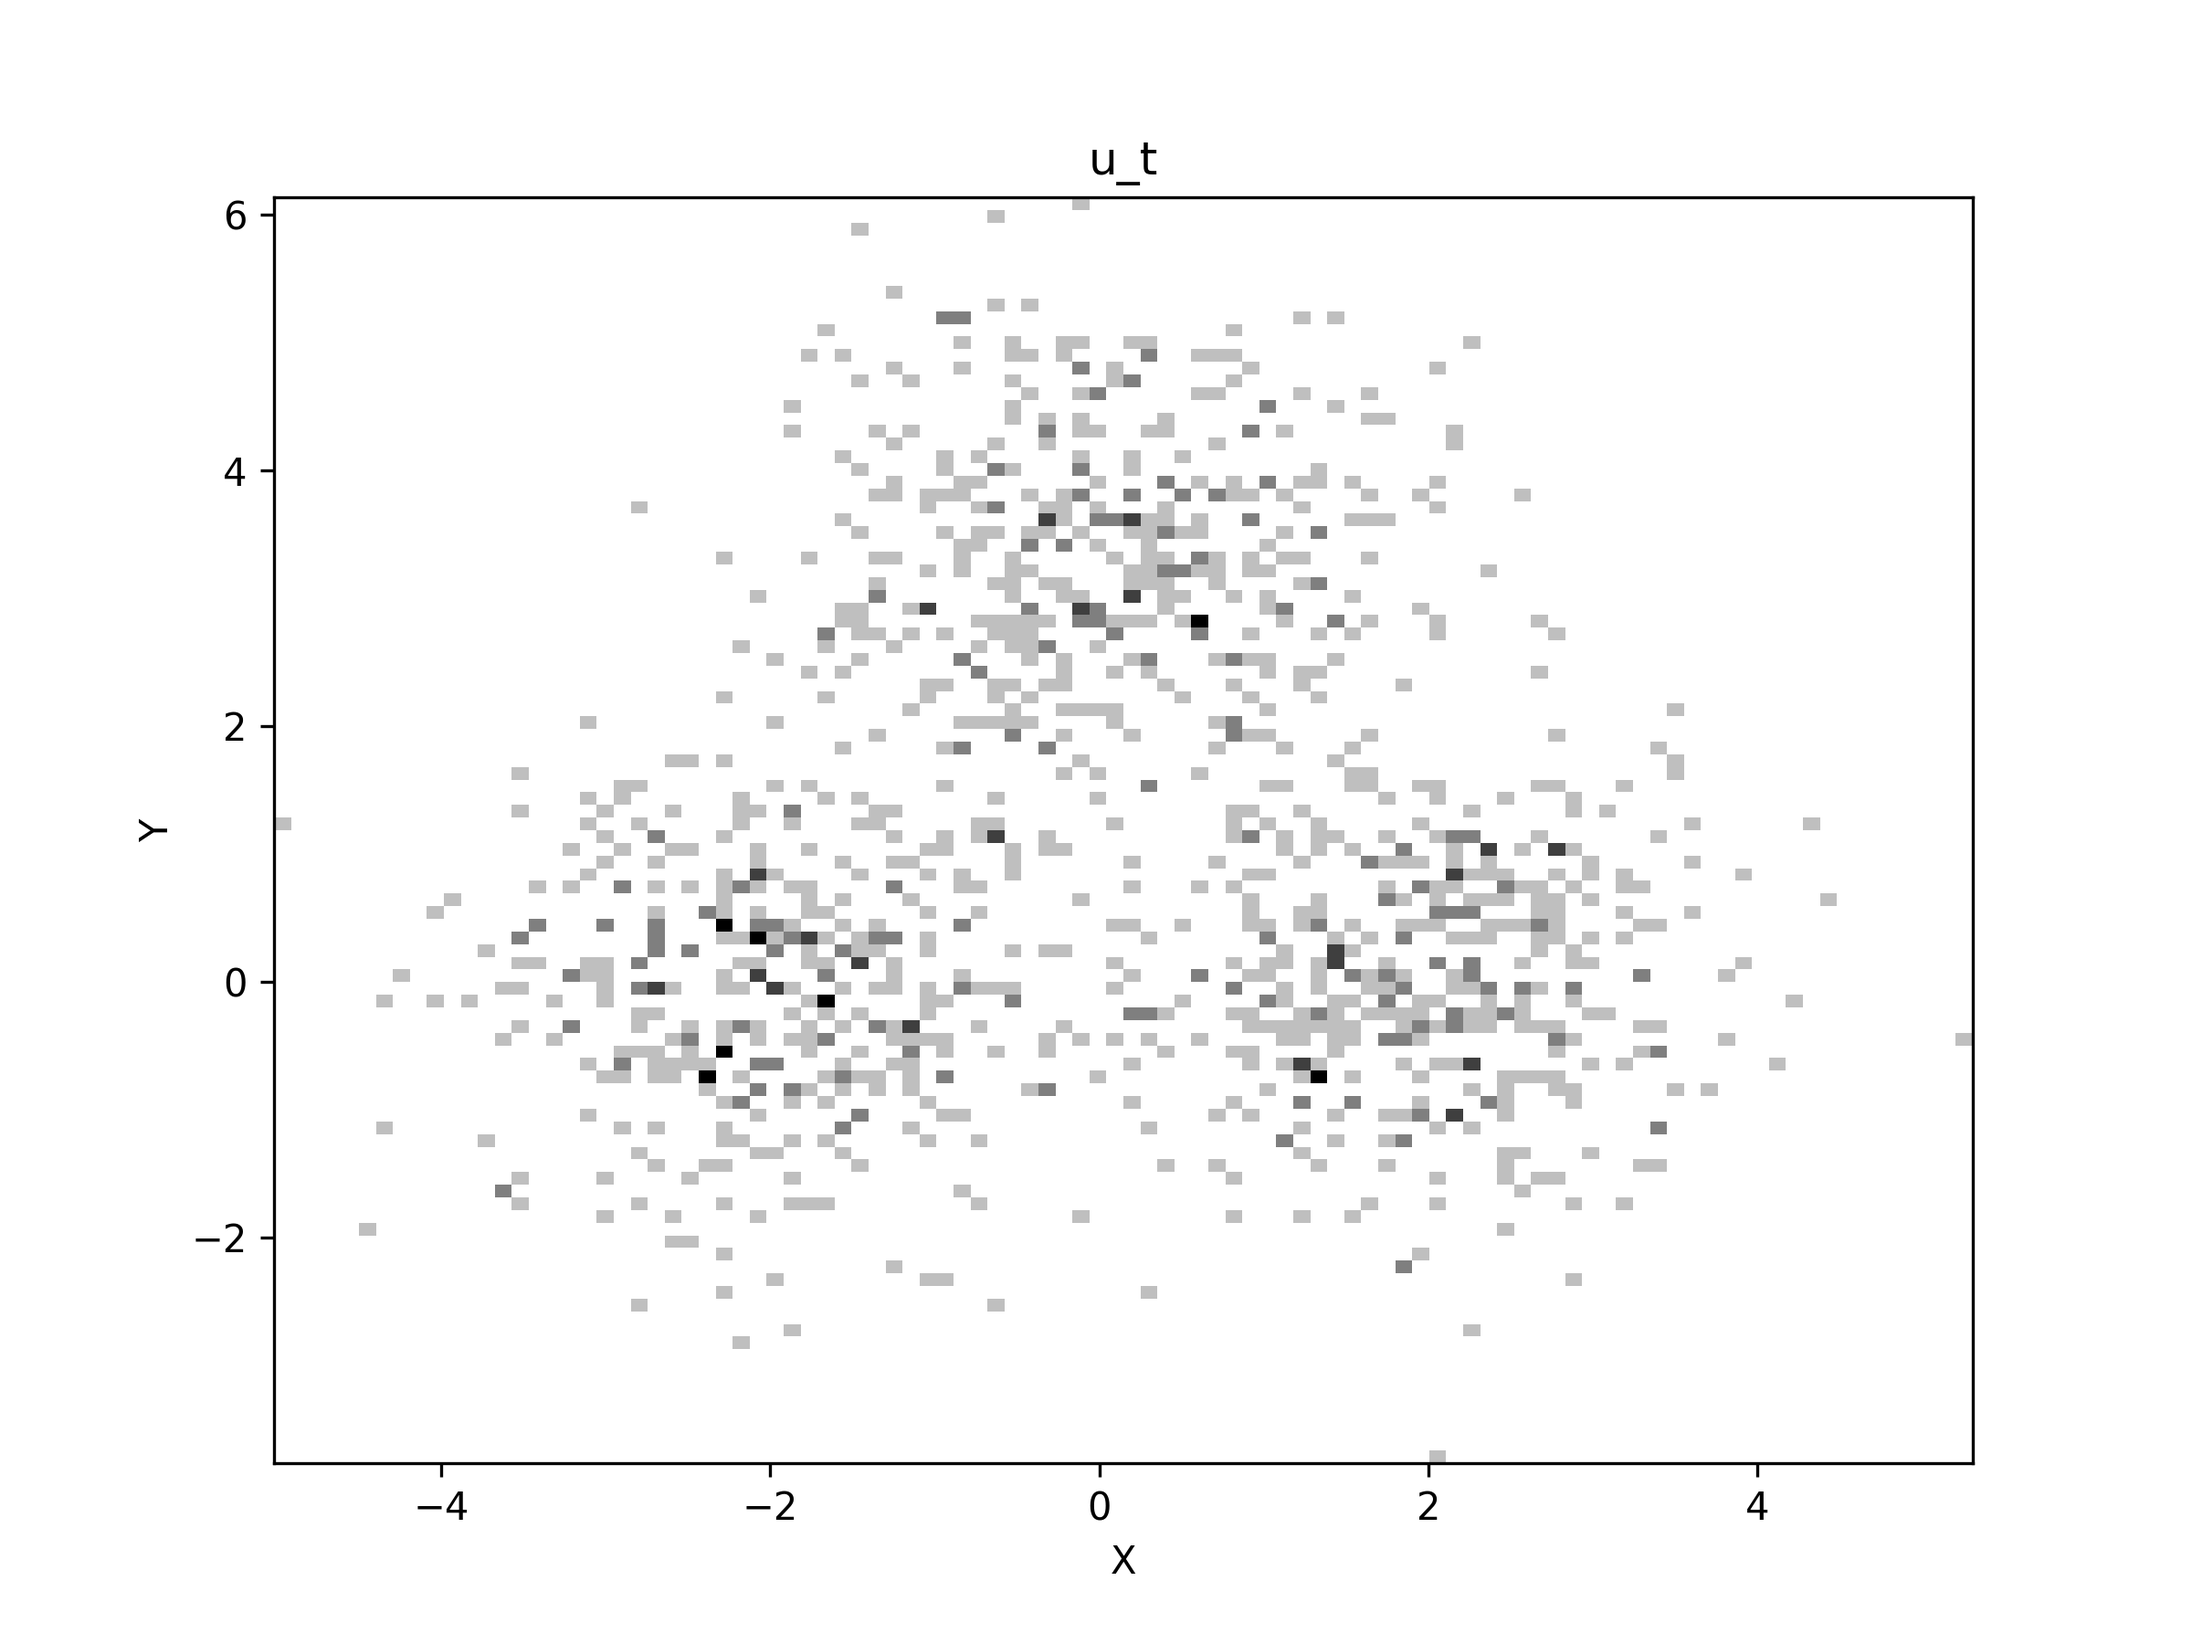
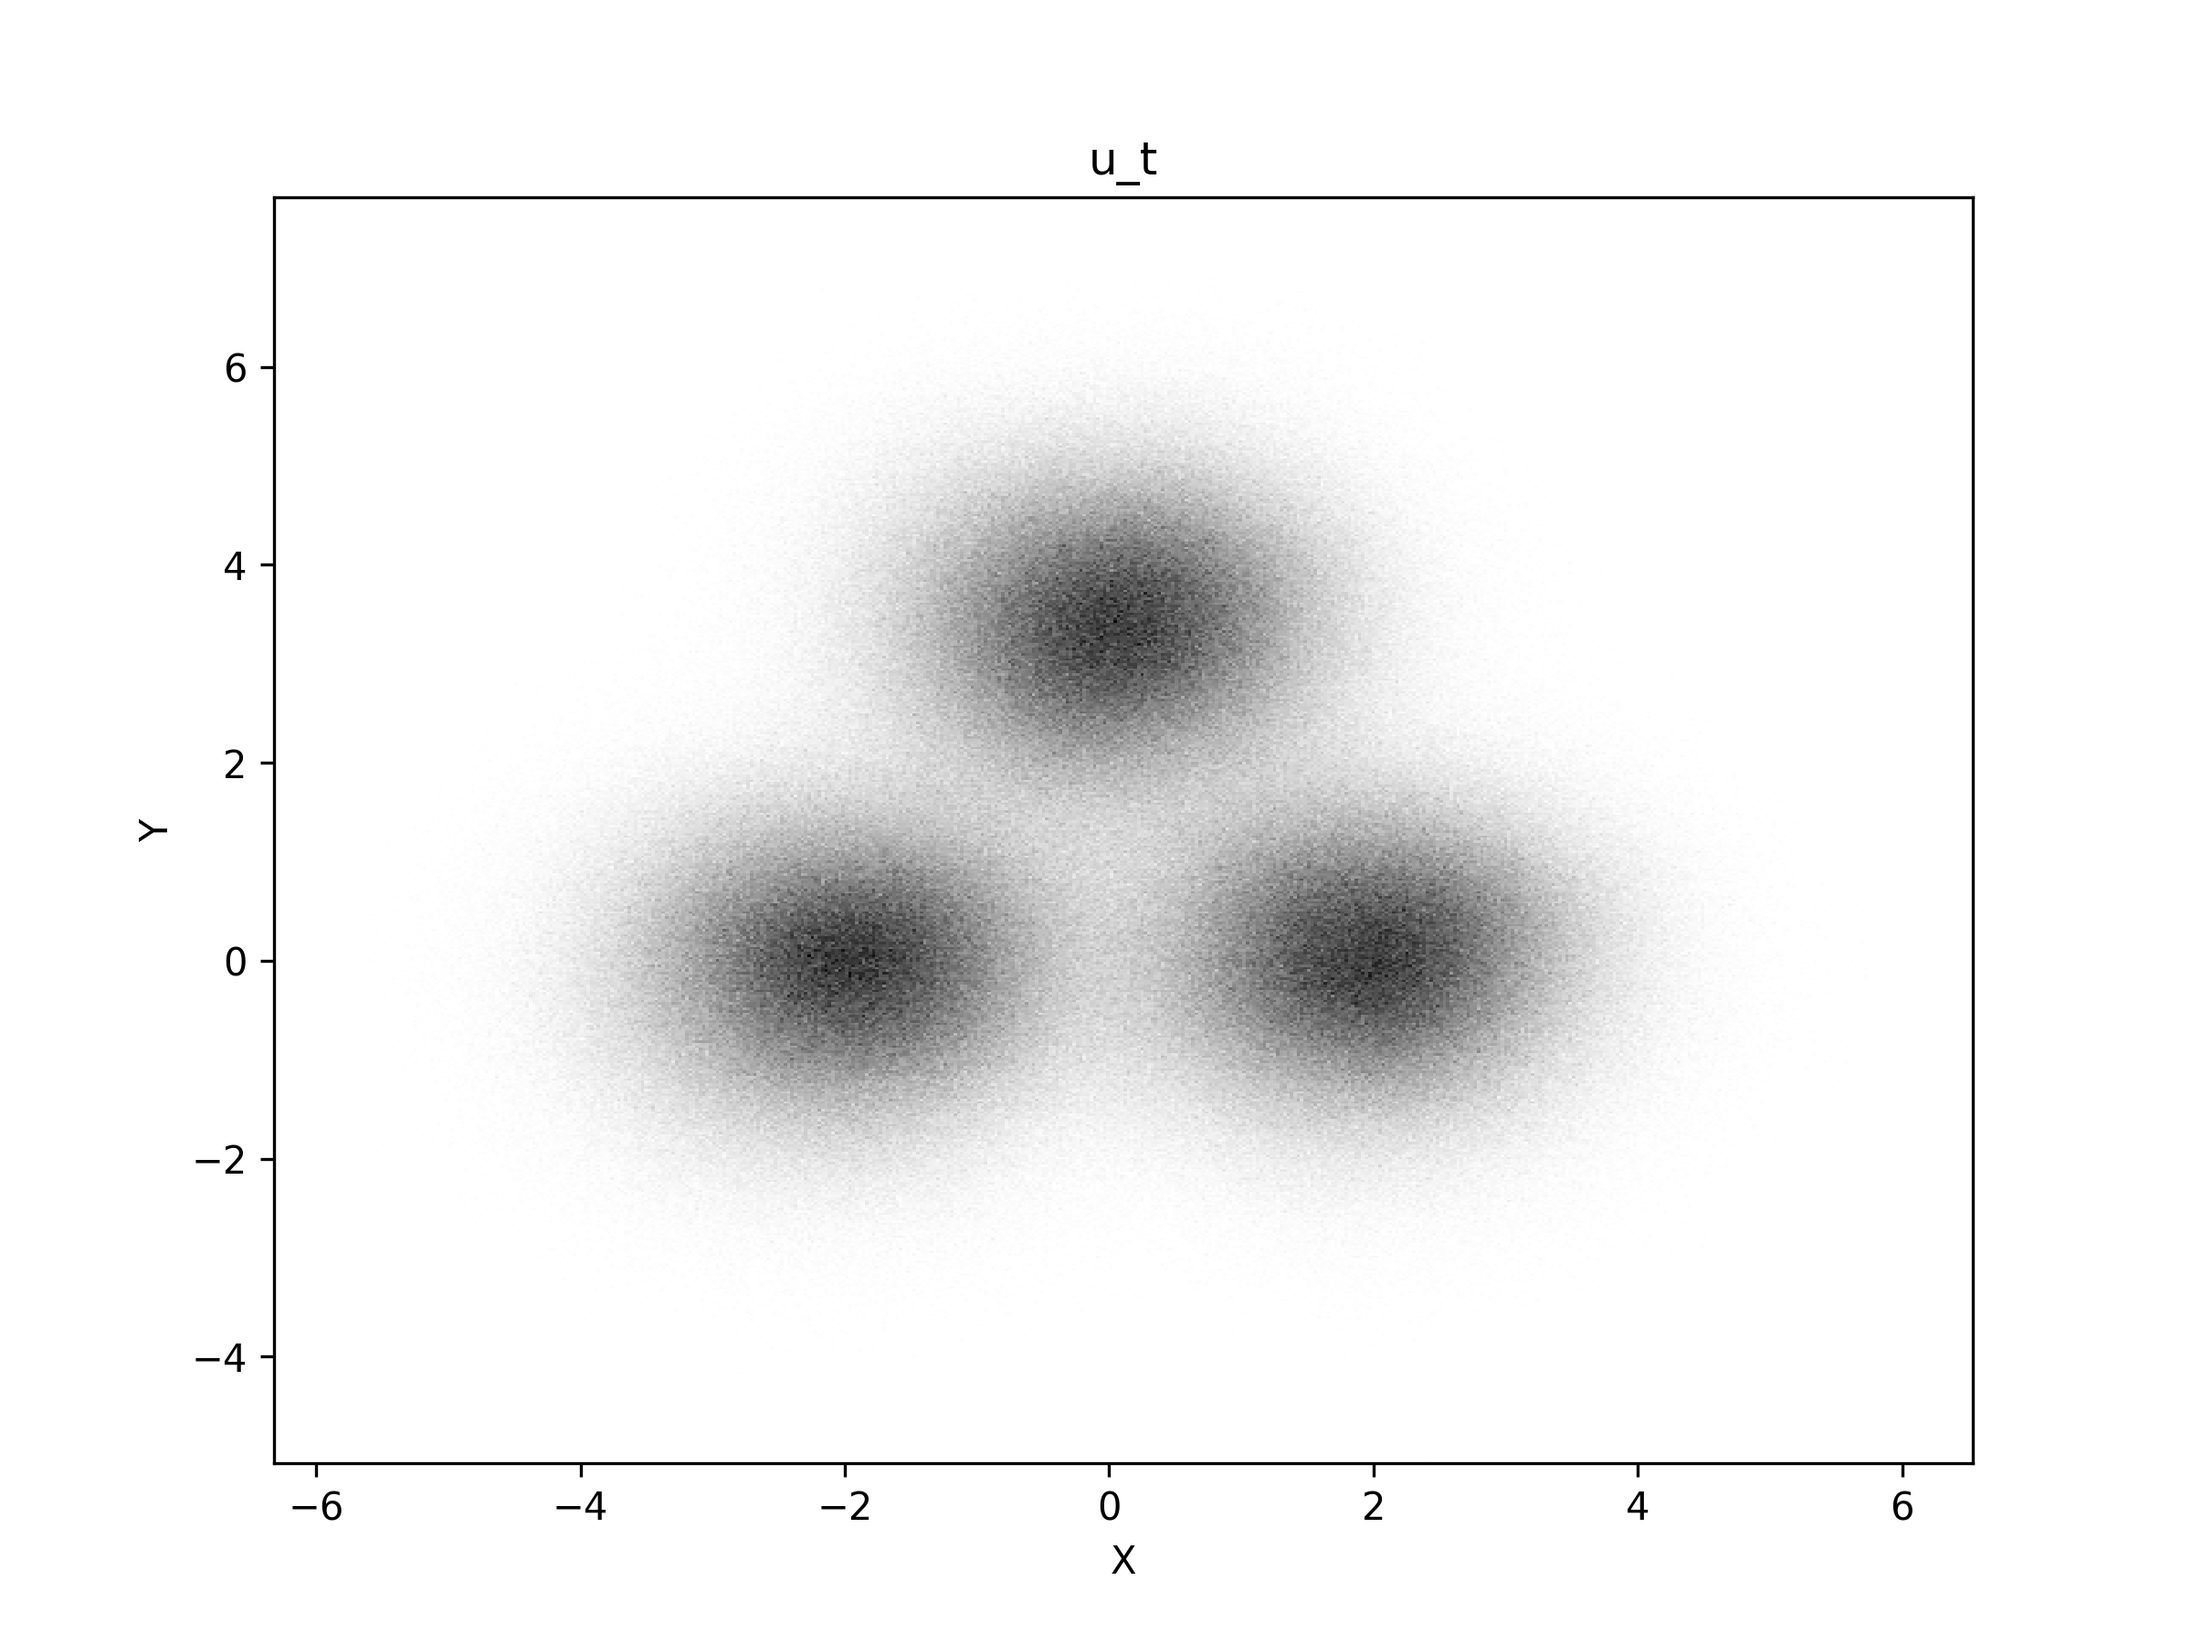
Deleted obsolete files

diff --git a/.ipynb_checkpoints/sample_from_model-checkpoint.py b/.ipynb_checkpoints/sample_from_model-checkpoint.py
@@ -14,7 +14,7 @@ model.eval()
 
 def ode_step_rk4(model, x_t, t, h, y, w, device):
     with torch.no_grad():
-        y0 = torch.tensor([0], dtype=torch.long, device = device)
+        y0 = torch.zeros_like(y)
         k1 = (1 - w) * model(x_t, t, y0) + w * model(x_t, t, y)
         k2 = (1 - w) * model(x_t + 0.5 * h * k1, t + 0.5 * h, y0) + w * model(x_t + 0.5 * h * k1, t + 0.5 * h, y)
         k3 = (1 - w) * model(x_t + 0.5 * h * k2, t + 0.5 * h, y0) + w * model(x_t + 0.5 * h * k2, t + 0.5 * h, y)
@@ -22,106 +22,73 @@ def ode_step_rk4(model, x_t, t, h, y, w, device):
         x_next = x_t + (h / 6.0) * (k1 + 2 * k2 + 2 * k3 + k4)
     return x_next
 
-def sampling_from_guided_flows(model, device, y=0, w=1.0, num_steps=100):
+def sampling_from_guided_flows(model, device, y=0, w=1.0, num_steps=100, batch_size=512):
     model.eval()
     with torch.no_grad():
-        x0 = torch.tensor(sample_noise(batch_size=1), dtype=torch.float32, device=device)
+        x0 = torch.tensor(sample_noise(batch_size=batch_size), dtype=torch.float32, device=device)
         h = 1.0 / num_steps
-        t = torch.zeros_like(x0[:, :1], device=device)
+        t = torch.zeros((batch_size, 1), device=device)
         x_t = x0.clone()
-
+        y_tensor = torch.full((batch_size,), y, dtype=torch.long, device=device)
         for _ in range(num_steps):
-            x_t = ode_step_rk4(model, x_t, t, h, torch.tensor([y], dtype=torch.long, device=device), w, device)
+            x_t = ode_step_rk4(model, x_t, t, h, y_tensor, w, device)
             t = t + h
 
-    return x_t.squeeze(0).detach().cpu().numpy()
+    return x_t.detach().cpu().numpy()
 
+n_iters = 2000
+batch_size = 512
 
-n_samples = 400
+print("SAMPLING...", flush=True)
 
-print("SAMPLING...", flush = True)
+# data1 = []
+# for i in range(3):
+#     y = i + 1
+#     cluster_batches = []
 
-data1 = []
+#     for j in range(n_iters):
+#         samples = sampling_from_guided_flows(
+#             model, device,
+#             y=y, w=1.0, num_steps=100,
+#             batch_size=batch_size
+#         )
+#         cluster_batches.append(samples)
+#         if (j + 1) % 100 == 0:
+#             print(f"{i+1}-th cluster, {j+1}-th iteration finished!", flush = True)
+
+#     cluster = np.concatenate(cluster_batches, axis=0)
+#     data1.append(cluster)
+
+# print("DATA1", flush=True)
+
+data2 = []
 for i in range(3):
     y = i + 1
-    cluster = np.array([sampling_from_guided_flows(model, device, y=y, w=1.0, num_steps=100) for _ in range(n_samples)])
-    data1.append(np.stack(cluster))
+    cluster_batches = []
 
-print("DATA1", flush = True)
+    for j in range(n_iters):
+        samples = sampling_from_guided_flows(
+            model, device,
+            y=y, w=4.0, num_steps=100,
+            batch_size=batch_size
+        )
+        cluster_batches.append(samples)
+        if (j + 1) % 100 == 0:
+            print(f"{i+1}-th cluster, {j+1}-th iteration finished!", flush = True)
 
-# data2 = []
-# for i in range(3):
-#     y = i + 1
-#     cluster = np.array([sampling_from_guided_flows(model, device, y=y, w=4.0, num_steps=100) for _ in range(n_samples)])
-#     data2.append(np.stack(cluster))
+    cluster = np.concatenate(cluster_batches, axis=0)
+    data2.append(cluster)
 
-# print("DATA2")
-
-# data3 = []
-# for i in range(3):
-#     y = i + 1
-#     cluster = np.array([sampling_from_guided_flows(model, device, y=y, w=0.0, num_steps=100) for _ in range(n_samples)])
-#     data3.append(np.stack(cluster))
-
-# print("DATA3")
+print("DATA2", flush=True)
 
 print("PLOTING", flush = True)
 fig, ax = plt.subplots(figsize=(8,6))
 
-points = np.vstack(data1)
-# for i, cluster in enumerate(data1):
-#     # ax.scatter(
-#     #     cluster[:,0], cluster[:,1],
-#     #     s=5,                      # veličina tačke
-#     #     alpha=0.4,                # providnost (0.0 - 1.0)
-#     #     color=colors[i]
-#     # )
-#     ax.hist2d(
-#         cluster[:, 0], cluster[:, 1],
-#         bins=100,                    # broj binova
-#         cmap=colors[i],             # svakom klasteru druga mapa boja
-#         alpha=0.6,                  # prozirnost da se preklapaju
-#         density=True                # da prikazuje gustinu
-#     )
-
-plt.hist2d(points[:, 0], points[:, 1], bins=100, cmap='binary')
+points = np.vstack(data2)
+plt.hist2d(points[:, 0], points[:, 1], bins=500, cmap='binary')
 
 plt.title("u_t")
 plt.xlabel("X")
 plt.ylabel("Y")
-plt.savefig("plots/u_t_data1.png", dpi=300)
+plt.savefig("plots/u_t_data2.png", dpi=300)
 plt.close()
-
-# fig, ax = plt.subplots(figsize=(8,6))
-# colors = ['Red', 'Green', 'Blue']
-
-# for i, cluster in enumerate(data2):
-#     ax.scatter(
-#         cluster[:,0], cluster[:,1],
-#         s=5,                      # veličina tačke
-#         alpha=0.4,                # providnost (0.0 - 1.0)
-#         color=colors[i]
-#     )
-
-# plt.title("u_t")
-# plt.xlabel("X")
-# plt.ylabel("Y")
-# plt.savefig("plots/u_t_data2.png", dpi=300)
-# plt.close()
-
-# fig, ax = plt.subplots(figsize=(8,6))
-# colors = ['Red', 'Green', 'Blue']
-
-# for i, cluster in enumerate(data3):
-#     ax.scatter(
-#         cluster[:,0], cluster[:,1],
-#         s=5,                      # veličina tačke
-#         alpha=0.4,                # providnost (0.0 - 1.0)
-#         color=colors[i]
-#     )
-
-# plt.title("u_t")
-# plt.xlabel("X")
-# plt.ylabel("Y")
-# plt.savefig("plots/u_t_data3.png", dpi=300)
-# plt.close()

diff --git a/sample_from_model.py b/sample_from_model.py
@@ -14,7 +14,7 @@ model.eval()
 
 def ode_step_rk4(model, x_t, t, h, y, w, device):
     with torch.no_grad():
-        y0 = torch.tensor([0], dtype=torch.long, device = device)
+        y0 = torch.zeros_like(y)
         k1 = (1 - w) * model(x_t, t, y0) + w * model(x_t, t, y)
         k2 = (1 - w) * model(x_t + 0.5 * h * k1, t + 0.5 * h, y0) + w * model(x_t + 0.5 * h * k1, t + 0.5 * h, y)
         k3 = (1 - w) * model(x_t + 0.5 * h * k2, t + 0.5 * h, y0) + w * model(x_t + 0.5 * h * k2, t + 0.5 * h, y)
@@ -22,106 +22,73 @@ def ode_step_rk4(model, x_t, t, h, y, w, device):
         x_next = x_t + (h / 6.0) * (k1 + 2 * k2 + 2 * k3 + k4)
     return x_next
 
-def sampling_from_guided_flows(model, device, y=0, w=1.0, num_steps=100):
+def sampling_from_guided_flows(model, device, y=0, w=1.0, num_steps=100, batch_size=512):
     model.eval()
     with torch.no_grad():
-        x0 = torch.tensor(sample_noise(batch_size=1), dtype=torch.float32, device=device)
+        x0 = torch.tensor(sample_noise(batch_size=batch_size), dtype=torch.float32, device=device)
         h = 1.0 / num_steps
-        t = torch.zeros_like(x0[:, :1], device=device)
+        t = torch.zeros((batch_size, 1), device=device)
         x_t = x0.clone()
-
+        y_tensor = torch.full((batch_size,), y, dtype=torch.long, device=device)
         for _ in range(num_steps):
-            x_t = ode_step_rk4(model, x_t, t, h, torch.tensor([y], dtype=torch.long, device=device), w, device)
+            x_t = ode_step_rk4(model, x_t, t, h, y_tensor, w, device)
             t = t + h
 
-    return x_t.squeeze(0).detach().cpu().numpy()
+    return x_t.detach().cpu().numpy()
 
+n_iters = 2000
+batch_size = 512
 
-n_samples = 400
+print("SAMPLING...", flush=True)
 
-print("SAMPLING...", flush = True)
+# data1 = []
+# for i in range(3):
+#     y = i + 1
+#     cluster_batches = []
 
-data1 = []
+#     for j in range(n_iters):
+#         samples = sampling_from_guided_flows(
+#             model, device,
+#             y=y, w=1.0, num_steps=100,
+#             batch_size=batch_size
+#         )
+#         cluster_batches.append(samples)
+#         if (j + 1) % 100 == 0:
+#             print(f"{i+1}-th cluster, {j+1}-th iteration finished!", flush = True)
+
+#     cluster = np.concatenate(cluster_batches, axis=0)
+#     data1.append(cluster)
+
+# print("DATA1", flush=True)
+
+data2 = []
 for i in range(3):
     y = i + 1
-    cluster = np.array([sampling_from_guided_flows(model, device, y=y, w=1.0, num_steps=100) for _ in range(n_samples)])
-    data1.append(np.stack(cluster))
+    cluster_batches = []
 
-print("DATA1", flush = True)
+    for j in range(n_iters):
+        samples = sampling_from_guided_flows(
+            model, device,
+            y=y, w=4.0, num_steps=100,
+            batch_size=batch_size
+        )
+        cluster_batches.append(samples)
+        if (j + 1) % 100 == 0:
+            print(f"{i+1}-th cluster, {j+1}-th iteration finished!", flush = True)
 
-# data2 = []
-# for i in range(3):
-#     y = i + 1
-#     cluster = np.array([sampling_from_guided_flows(model, device, y=y, w=4.0, num_steps=100) for _ in range(n_samples)])
-#     data2.append(np.stack(cluster))
+    cluster = np.concatenate(cluster_batches, axis=0)
+    data2.append(cluster)
 
-# print("DATA2")
-
-# data3 = []
-# for i in range(3):
-#     y = i + 1
-#     cluster = np.array([sampling_from_guided_flows(model, device, y=y, w=0.0, num_steps=100) for _ in range(n_samples)])
-#     data3.append(np.stack(cluster))
-
-# print("DATA3")
+print("DATA2", flush=True)
 
 print("PLOTING", flush = True)
 fig, ax = plt.subplots(figsize=(8,6))
 
-points = np.vstack(data1)
-# for i, cluster in enumerate(data1):
-#     # ax.scatter(
-#     #     cluster[:,0], cluster[:,1],
-#     #     s=5,                      # veličina tačke
-#     #     alpha=0.4,                # providnost (0.0 - 1.0)
-#     #     color=colors[i]
-#     # )
-#     ax.hist2d(
-#         cluster[:, 0], cluster[:, 1],
-#         bins=100,                    # broj binova
-#         cmap=colors[i],             # svakom klasteru druga mapa boja
-#         alpha=0.6,                  # prozirnost da se preklapaju
-#         density=True                # da prikazuje gustinu
-#     )
-
-plt.hist2d(points[:, 0], points[:, 1], bins=100, cmap='binary')
+points = np.vstack(data2)
+plt.hist2d(points[:, 0], points[:, 1], bins=500, cmap='binary')
 
 plt.title("u_t")
 plt.xlabel("X")
 plt.ylabel("Y")
-plt.savefig("plots/u_t_data1.png", dpi=300)
+plt.savefig("plots/u_t_data2.png", dpi=300)
 plt.close()
-
-# fig, ax = plt.subplots(figsize=(8,6))
-# colors = ['Red', 'Green', 'Blue']
-
-# for i, cluster in enumerate(data2):
-#     ax.scatter(
-#         cluster[:,0], cluster[:,1],
-#         s=5,                      # veličina tačke
-#         alpha=0.4,                # providnost (0.0 - 1.0)
-#         color=colors[i]
-#     )
-
-# plt.title("u_t")
-# plt.xlabel("X")
-# plt.ylabel("Y")
-# plt.savefig("plots/u_t_data2.png", dpi=300)
-# plt.close()
-
-# fig, ax = plt.subplots(figsize=(8,6))
-# colors = ['Red', 'Green', 'Blue']
-
-# for i, cluster in enumerate(data3):
-#     ax.scatter(
-#         cluster[:,0], cluster[:,1],
-#         s=5,                      # veličina tačke
-#         alpha=0.4,                # providnost (0.0 - 1.0)
-#         color=colors[i]
-#     )
-
-# plt.title("u_t")
-# plt.xlabel("X")
-# plt.ylabel("Y")
-# plt.savefig("plots/u_t_data3.png", dpi=300)
-# plt.close()
